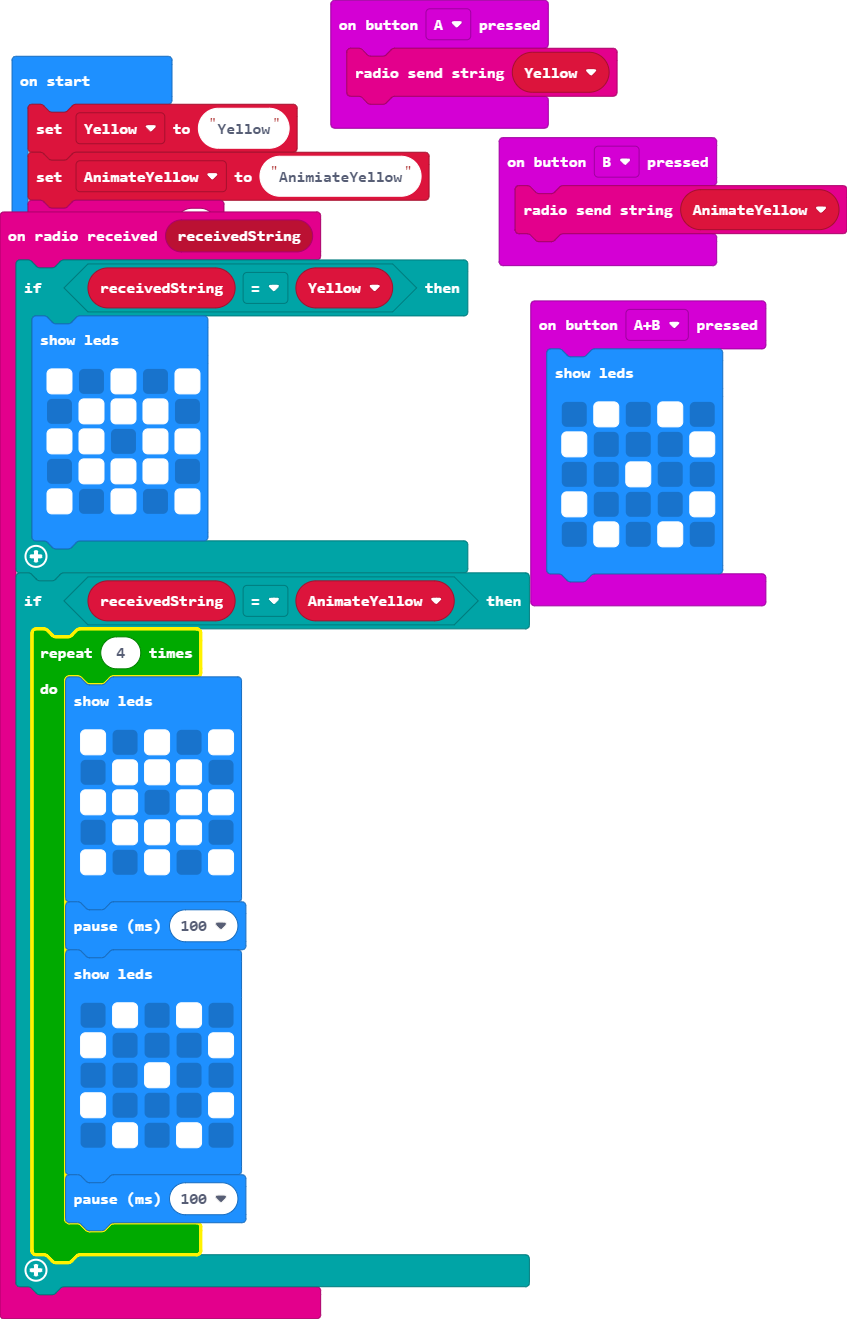
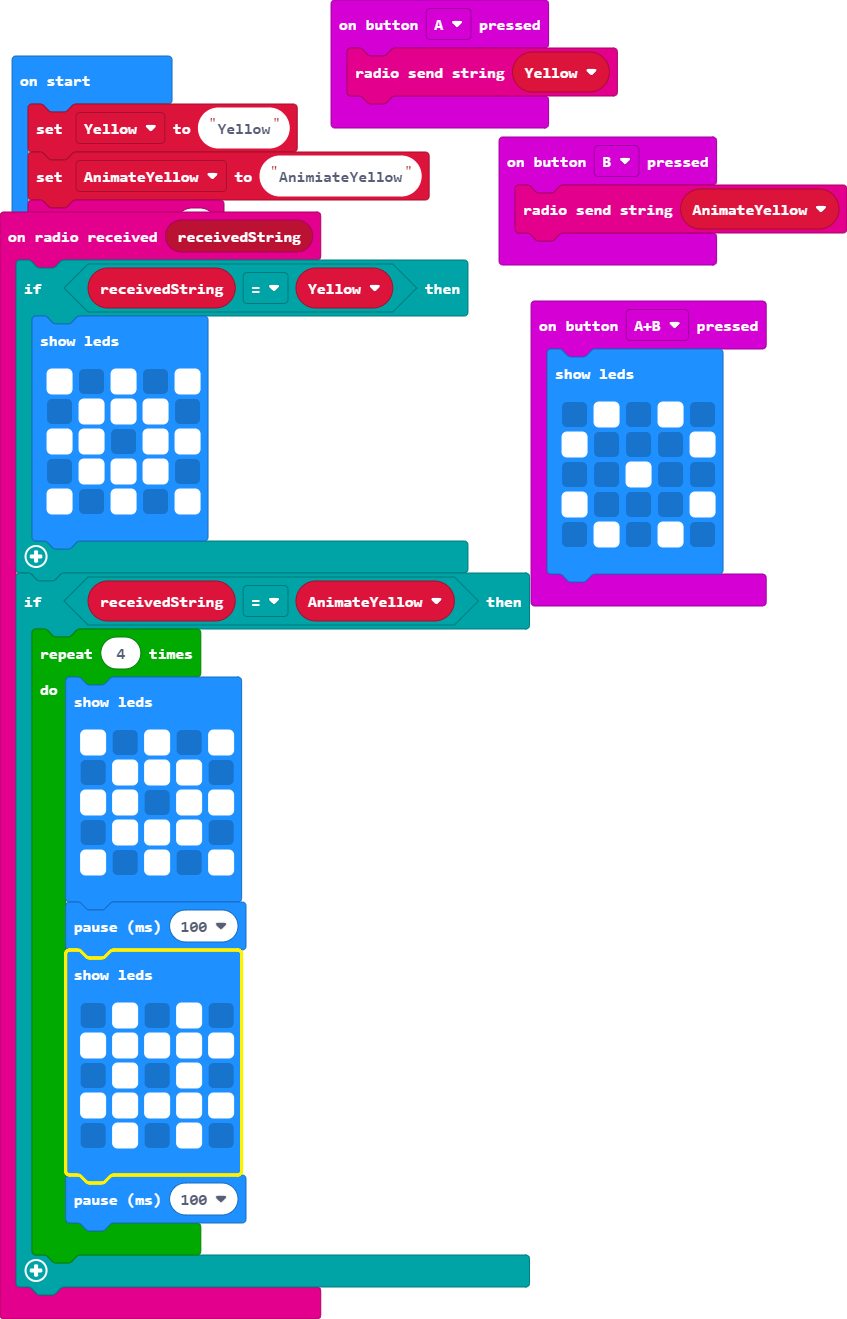
Update main.blocks, main.ts

diff --git a/main.ts b/main.ts
@@ -32,9 +32,9 @@ radio.onReceivedString(function (receivedString) {
             basic.pause(100)
             basic.showLeds(`
                 . # . # .
-                # . . . #
-                . . # . .
-                # . . . #
+                # # # # #
+                . # . # .
+                # # # # #
                 . # . # .
                 `)
             basic.pause(100)
